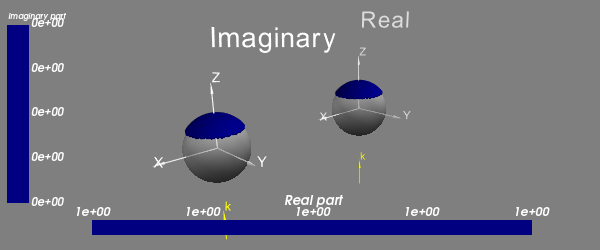
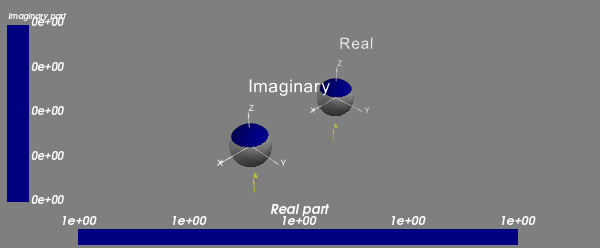
addded UpdateExample.py

diff --git a/examples/UpdateExamples.py b/examples/UpdateExamples.py
@@ -1,0 +1,52 @@
+import importlib
+import examples
+from mayavi     import mlab
+from pyface.api import GUI
+import matplotlib.pyplot as plt
+
+def saveMatplotlib():
+    """Close the scene."""
+    plt.savefig(f'docs/images/{name}.png')
+    plt.close()
+
+def saveMlab():
+    """Close the scene."""
+    mlab.savefig(f'docs/images/{name}.png')
+    mlab.close()
+
+def runScriptMlab(script):
+    global name
+    name = script
+    GUI.invoke_after(2000, saveMlab)
+    module = importlib.import_module(script)
+
+def runScriptMatplotlib(script):
+    global name
+    name = script
+    GUI.invoke_after(2000, saveMatplotlib)
+    module = importlib.import_module(script)
+
+
+runScriptMlab('LPMode')
+
+runScriptMlab('Photodiode')
+
+runScriptMatplotlib('S1S2')
+
+runScriptMlab('Stokes')
+
+runScriptMlab('SPF')
+
+runScriptMlab('FarField')
+
+runScriptMatplotlib('Mie-resonances')
+
+runScriptMatplotlib('Qscattering')
+
+runScriptMatplotlib('Coupling-vs-wavelength')
+
+runScriptMatplotlib('Coupling-vs-diameter')
+
+runScriptMatplotlib('New-Material')
+
+runScriptMatplotlib('New-Material-Silver')

diff --git a/PyMieSim/Data/_Material/utils.py b/PyMieSim/Data/_Material/utils.py
@@ -7,12 +7,9 @@ import csv
 import urllib.request
 import pandas as pd
 import numpy as np
-from pathlib import Path
-
-PATH = os.path.join( Path(__file__).parent )
 
 from PyMieSim.BaseClasses import BaseMaterial
-
+from PyMieSim.Directories import NPZPath, MaterialPath
 
 
 def LoadOnline(url):
@@ -41,7 +38,7 @@ def LoadOnline(url):
 
 def LoadOnlineSave(url, filename, unit=1e-6):
     dict_data = LoadOnline(url)
-    directory = os.path.join( PATH, 'data', filename )
+    directory = os.path.join( NPZPath, filename )
 
     if 'wl1' not in dict_data:
          np.savez(directory,
@@ -55,7 +52,7 @@ def LoadOnlineSave(url, filename, unit=1e-6):
                  k = dict_data['k']
                  )
 
-    with open(os.path.join(PATH, 'Meta.json'), 'r+' ) as f:
+    with open(os.path.join(MaterialPath, 'Meta.json'), 'r+' ) as f:
         META                     = json.load(f)
         META['remote'][filename] = url
         META['local'][filename]  = filename + '.npz'

diff --git a/PyMieSim/BaseClasses.py b/PyMieSim/BaseClasses.py
@@ -7,7 +7,7 @@ import os
 from PyMieSim.Directories     import NPZPath
 from PyMieSim.Representations import S1S2, SPF, Stokes, ScalarFarField, Footprint
 from PyMieSim.Physics         import _Polarization, Angle
-from PyMieSim.utils           import NA2Angle, Cart2Sp, NearestIndex
+from PyMieSim.utils           import NA2Angle, Cart2Sp, NearestIndex, ToList
 from PyMieSim.units           import Power, Area
 from PyMieSim.Mesh            import FibonacciMesh
 from PyMieSim._Coupling       import Coupling
@@ -792,7 +792,8 @@ class BaseMaterial(object):
     def Evaluate(self, wavelength):
         self.counter = -1
         self.Data
-
+        wavelength = ToList(wavelength)
+        print(wavelength, self.Boundary[0])
         if any(wavelength < self.Boundary[0]) or any(wavelength > self.Boundary[1]):
             raise ValueError(f'Wavelength {wavelength} evaluated \
                                outside of defined range {self.Boundary}')

diff --git a/examples/Material.py b/examples/Material.py
@@ -3,12 +3,12 @@ from PyMieSim.Source import PlaneWave
 from PyMieSim import Material
 
 Source = PlaneWave(Wavelength   = 450e-9,
-                  Polarization = 0,
-                  E0           = 1)
+                   Polarization = 0,
+                   E0           = 1)
 
-Scat = Sphere(Diameter    = 800e-9,
-             Source       = Source,
-             Material     = Material('BK7'))
+Scat = Sphere(Diameter    = 300e-9,
+              Source       = Source,
+              Material     = Material('BK7'))
 
 
 # Material can be 'FusedSilica'

diff --git a/examples/New-Material-Silver.py b/examples/New-Material-Silver.py
@@ -1,4 +1,4 @@
-from PyMieSim._Material.utils import LoadOnlineSave
+from PyMieSim.Data._Material.utils import LoadOnlineSave
 from PyMieSim import Material
 
 LoadOnlineSave(filename='Silver', url='https://refractiveindex.info/data_csv.php?datafile=data/main/Ag/Johnson.yml')

diff --git a/examples/New-Material.py b/examples/New-Material.py
@@ -1,4 +1,4 @@
-from PyMieSim._Material.utils import LoadOnlineSave
+from PyMieSim.Data._Material.utils import LoadOnlineSave
 from PyMieSim import Material
 
 LoadOnlineSave(filename='BK7', url='https://refractiveindex.info/data_csv.php?datafile=data/glass/schott/N-BK7.yml')

diff --git a/PyMieSim/Experiment.py b/PyMieSim/Experiment.py
@@ -318,7 +318,6 @@ class Setup(object):
         shape = []
         size  = 1
         for item in conf['dimension'].values():
-            print(item)
             shape += [len(item)]
             size  *= len(item)
 

diff --git a/examples/Scatterer-Photodiode.py b/examples/Scatterer-Photodiode.py
@@ -18,4 +18,4 @@ Scat = Sphere(Diameter    = 300e-9,
 
 Coupling = Detector.Coupling(Scatterer = Scat)
 
-print(Coupling)
+print(Coupling) # 6.566085549292496e-18

diff --git a/__init__.py b/__init__.py
@@ -1,0 +1,1 @@
+from examples import Material

diff --git a/docs/source/Examples.rst b/docs/source/Examples.rst
@@ -6,7 +6,7 @@ Examples
 Scatterer: Index
 -------------------
 
-.. literalinclude:: ../../Examples/Index.py
+.. literalinclude:: ../../examples/Index.py
     :language: python
     :linenos:
 
@@ -14,7 +14,7 @@ Scatterer: Index
 Scatterer: Material
 -------------------
 
-.. literalinclude:: ../../Examples/Material.py
+.. literalinclude:: ../../examples/Material.py
     :language: python
     :linenos:
 
@@ -26,7 +26,7 @@ Scatterer: S1-S2
 
 
 
-.. literalinclude:: ../../Examples/S1S2.py
+.. literalinclude:: ../../examples/S1S2.py
     :language: python
     :linenos:
 
@@ -45,7 +45,7 @@ Scatterer: S1-S2
 Scatterer: Stokes
 -----------------
 
-.. literalinclude:: ../../Examples/Stokes.py
+.. literalinclude:: ../../examples/Stokes.py
     :language: python
     :linenos:
 
@@ -59,11 +59,11 @@ Scatterer: Stokes
 Scatterer: full far-field
 -------------------------
 
-.. literalinclude:: ../../Examples/FarField.py
+.. literalinclude:: ../../examples/FarField.py
     :language: python
     :linenos:
 
-.. image:: ../images/Fields.png
+.. image:: ../images/FarField.png
    :width: 600
 
 -----
@@ -73,7 +73,7 @@ Scatterer: full far-field
 Scatterer: phase function
 -------------------------
 
-.. literalinclude:: ../../Examples/SPF.py
+.. literalinclude:: ../../examples/SPF.py
     :language: python
     :linenos:
 
@@ -87,7 +87,7 @@ Scatterer: phase function
 Detector: Photodiode
 --------------------
 
-.. literalinclude:: ../../Examples/Photodiode.py
+.. literalinclude:: ../../examples/Photodiode.py
     :language: python
     :linenos:
 
@@ -102,12 +102,12 @@ Detector: Photodiode
 Detector: LPMode
 ----------------
 
-.. literalinclude:: ../../Examples/LPMode.py
+.. literalinclude:: ../../examples/LPMode.py
     :language: python
     :linenos:
 
 
-.. image:: ../images/LPmode.png
+.. image:: ../images/LPMode.png
    :width: 600
 
 -----
@@ -118,7 +118,7 @@ Detector: LPMode
 Coupling: Scatterer-Photodiode
 ------------------------------
 
-.. literalinclude:: ../../Examples/Scatterer-Photodiode.py
+.. literalinclude:: ../../examples/Scatterer-Photodiode.py
     :language: python
     :linenos:
 
@@ -133,11 +133,11 @@ Output: (6.57e+01 nWatt)
 ScattererSet: Qscattering
 --------------------------
 
-.. literalinclude:: ../../Examples/Qscattering.py
+.. literalinclude:: ../../examples/Qscattering.py
     :language: python
     :linenos:
 
-.. image:: ../images/Qsca.png
+.. image:: ../images/Qscattering.png
    :width: 600
 
 
@@ -149,7 +149,7 @@ ScattererSet: Qscattering
 Experiment: Qsca-vs-diameter
 ------------------------------
 
-.. literalinclude:: ../../Examples/Qsca-vs-diameter.py
+.. literalinclude:: ../../examples/Qsca-vs-diameter.py
     :language: python
     :linenos:
 
@@ -164,7 +164,7 @@ Experiment: Qsca-vs-diameter
 Experiment: Mie-resonances
 --------------------------
 
-.. literalinclude:: ../../Examples/Mie-resonances.py
+.. literalinclude:: ../../examples/Mie-resonances.py
     :language: python
     :linenos:
 
@@ -180,7 +180,7 @@ Experiment: Mie-resonances
 Experiment: Coupling-vs-diameter
 ---------------------------------
 
-.. literalinclude:: ../../Examples/Coupling-vs-diameter.py
+.. literalinclude:: ../../examples/Coupling-vs-diameter.py
     :language: python
     :linenos:
 
@@ -193,7 +193,7 @@ Experiment: Coupling-vs-diameter
 Experiment: Coupling-vs-wavelength
 -----------------------------------
 
-.. literalinclude:: ../../Examples/Coupling-vs-wavelength.py
+.. literalinclude:: ../../examples/Coupling-vs-wavelength.py
     :language: python
     :linenos:
 
@@ -205,7 +205,7 @@ Experiment: Coupling-vs-wavelength
 Optimization: Opt-1-parameter
 ------------------------------
 
-.. literalinclude:: ../../Examples/Opt-1-parameter.py
+.. literalinclude:: ../../examples/Opt-1-parameter.py
     :language: python
     :linenos:
 
@@ -255,6 +255,6 @@ Optimization: Opt-1-parameter
 Optimization: Opt-2-parameter
 ------------------------------
 
-.. literalinclude:: ../../Examples/Opt-2-parameter.py
+.. literalinclude:: ../../examples/Opt-2-parameter.py
     :language: python
     :linenos:
